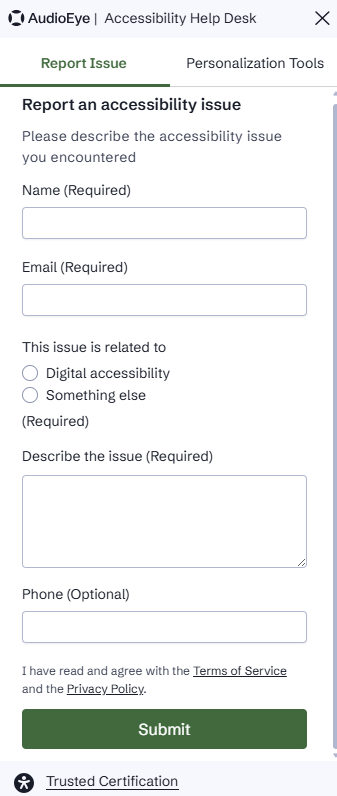
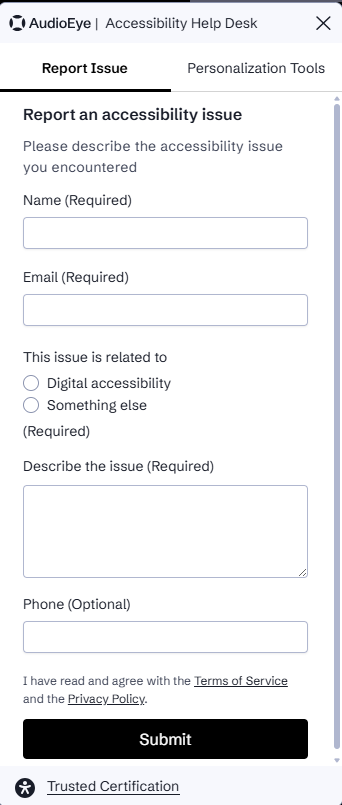
commit the new chnages on ada widget

diff --git a/styles.css b/styles.css
@@ -36,7 +36,7 @@ nav.navbar.navbar-expand-lg.navbar-dark.bg-dark img {
 /* Floating Button (Left Side) */
   #adaButton {
     position: fixed;
-    left: 12px;
+    right: 12px;
     top: 95%;
     transform: translateY(-50%);
     /*background-color: #2e7d32;*/
